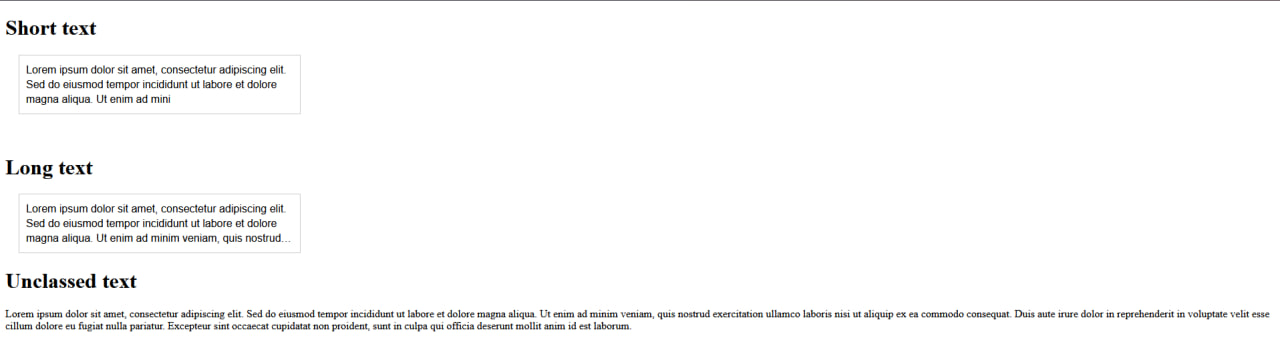
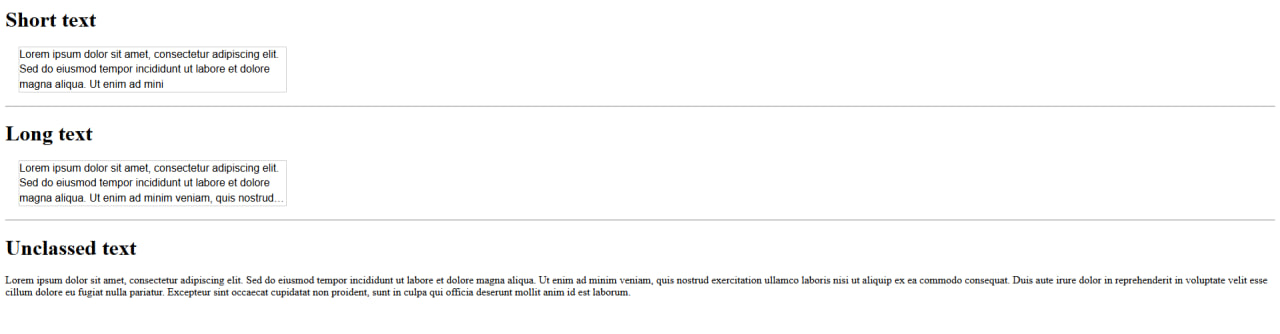
[fix] Remove padding

diff --git a/askariardzhas.shaygan/lab1/index.html b/askariardzhas.shaygan/lab1/index.html
@@ -13,7 +13,7 @@
       tempor incididunt ut labore et dolore magna aliqua. Ut enim ad mini
     </div>
 
-    <br />
+    <hr />
 
     <h1>Long text</h1>
     <div class="text-block">
@@ -25,6 +25,8 @@
       cupidatat non proident, sunt in culpa qui officia deserunt mollit anim id
       est laborum.
     </div>
+
+    <hr />
 
     <h1>Unclassed text</h1>
 

diff --git a/askariardzhas.shaygan/lab1/styles.css b/askariardzhas.shaygan/lab1/styles.css
@@ -10,6 +10,5 @@
   text-overflow: ellipsis;
   width: 400px;
   border: 1px solid #ccc;
-  padding: 10px;
   margin: 20px;
 }
